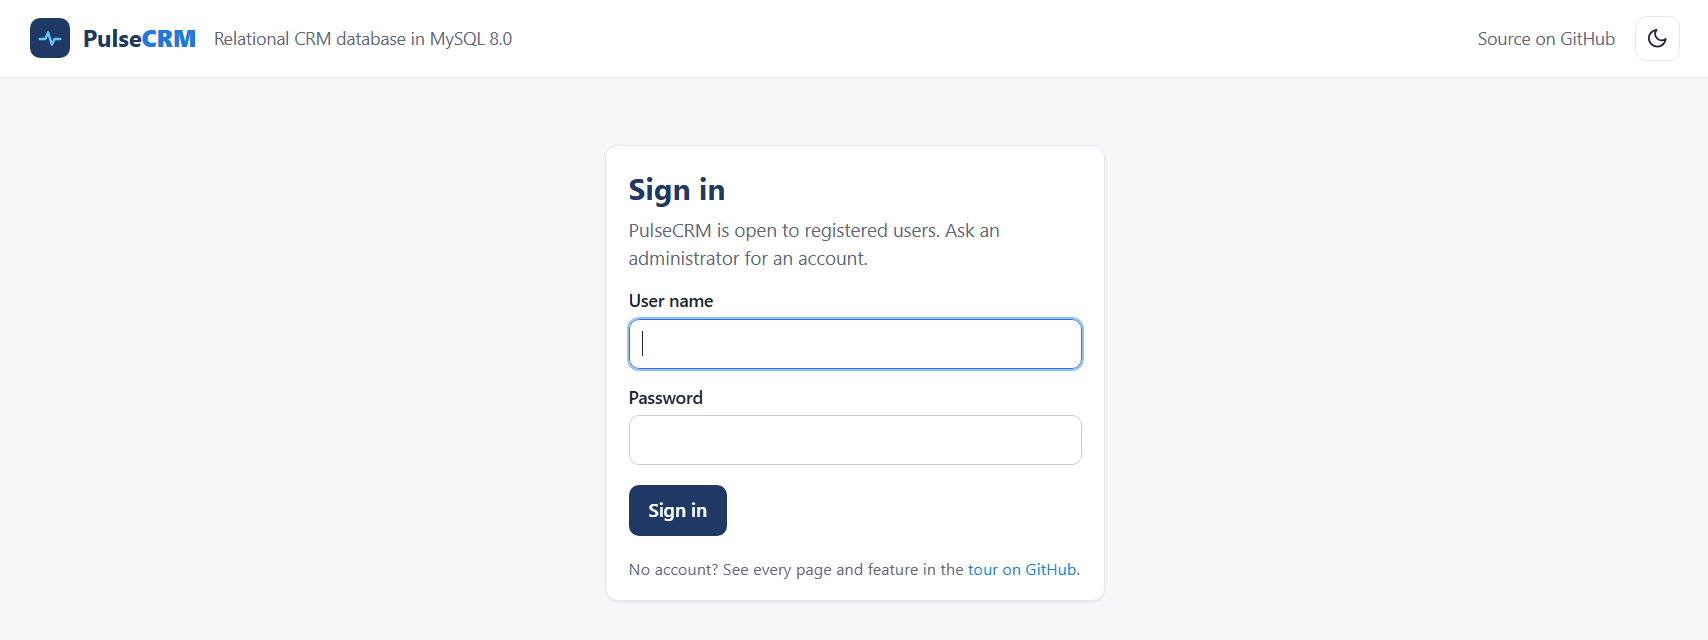
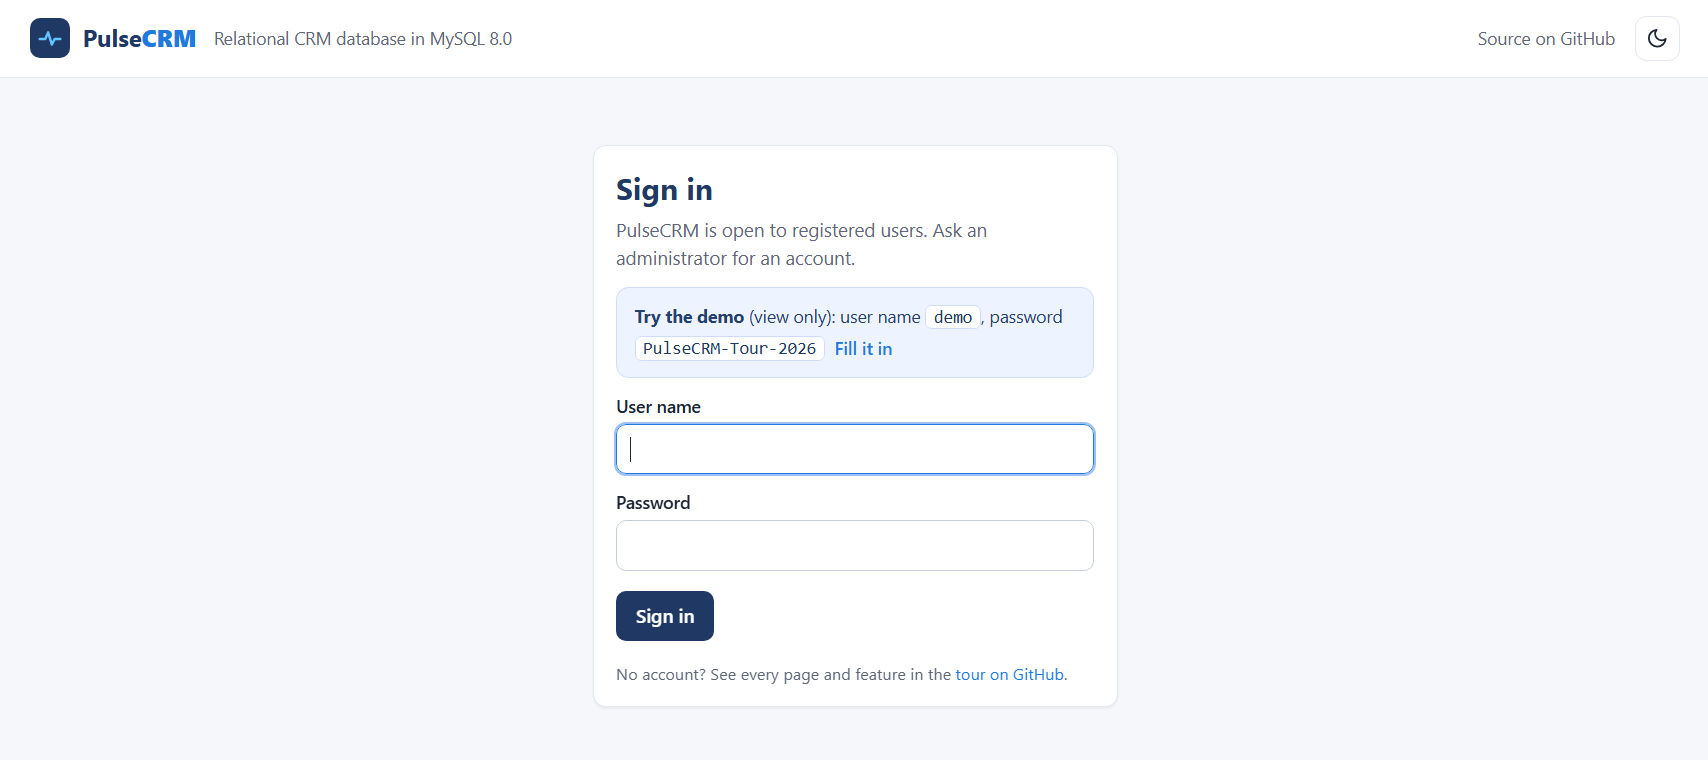
Publish a view-only demo login with a password nobody can change
Accounts can now be marked as a shared demo account (new column
web_accounts.password_locked). For such an account My account offers no
password change, a reset does not ask for a new password, and it cannot
have Manage users. setup_cloud_db.py --keep-data adds the column to an
existing database.

The sign-in page shows the public demo login (demo / PulseCRM-Tour-2026,
view only) with a button that fills it in, and the README lists it next
to the tour.

diff --git a/web/templates/account.html b/web/templates/account.html
@@ -8,19 +8,24 @@
 <div class="grid two">
   <div class="card">
     <h2>Change password</h2>
-    {% if user.must_change_password %}
-      <div class="flash info">You are using a temporary password. Choose your own to continue.</div>
+    {% if user.password_locked %}
+      <p class="muted" style="margin: 0">This is a shared demo account: everyone signs in with the same password, so it
+        cannot be changed here.</p>
+    {% else %}
+      {% if user.must_change_password %}
+        <div class="flash info">You are using a temporary password. Choose your own to continue.</div>
+      {% endif %}
+      <form method="post">
+        <input type="hidden" name="csrf" value="{{ csrf_token() }}">
+        <label for="current">Current password</label>
+        <input type="password" id="current" name="current" autocomplete="current-password" required>
+        <label for="new">New password <span class="hint">(at least 10 characters)</span></label>
+        <input type="password" id="new" name="new" autocomplete="new-password" minlength="10" required>
+        <label for="confirm">New password again</label>
+        <input type="password" id="confirm" name="confirm" autocomplete="new-password" minlength="10" required>
+        <div class="actions"><button class="btn" type="submit">Change password</button></div>
+      </form>
     {% endif %}
-    <form method="post">
-      <input type="hidden" name="csrf" value="{{ csrf_token() }}">
-      <label for="current">Current password</label>
-      <input type="password" id="current" name="current" autocomplete="current-password" required>
-      <label for="new">New password <span class="hint">(at least 10 characters)</span></label>
-      <input type="password" id="new" name="new" autocomplete="new-password" minlength="10" required>
-      <label for="confirm">New password again</label>
-      <input type="password" id="confirm" name="confirm" autocomplete="new-password" minlength="10" required>
-      <div class="actions"><button class="btn" type="submit">Change password</button></div>
-    </form>
   </div>
   <div class="card">
     <h2>My privileges</h2>

diff --git a/web/templates/login.html b/web/templates/login.html
@@ -4,6 +4,13 @@
 <div class="card login-card">
   <h1>Sign in</h1>
   <p class="muted" style="margin: 0 0 8px">PulseCRM is open to registered users. Ask an administrator for an account.</p>
+  {% if demo %}
+    <div class="note-box demo-box">
+      <strong>Try the demo</strong> (view only): user name <code>{{ demo[0] }}</code>, password <code>{{ demo[1] }}</code>
+      <button type="button" class="linkish" id="use-demo" data-username="{{ demo[0] }}" data-password="{{ demo[1] }}">Fill
+        it in</button>
+    </div>
+  {% endif %}
   {% if error %}<div class="flash error" style="margin: 12px 0 0">{{ error }}</div>{% endif %}
   <form method="post">
     <input type="hidden" name="csrf" value="{{ csrf_token() }}">
@@ -17,4 +24,14 @@
   <p class="hint" style="margin: 16px 0 0">No account? See every page and feature in the
     <a href="{{ github }}#live-web-application">tour on GitHub</a>.</p>
 </div>
+{% if demo %}
+<script nonce="{{ csp_nonce() }}">
+  // "Fill it in" copies the public demo login into the form.
+  document.getElementById("use-demo").addEventListener("click", function () {
+    document.getElementById("username").value = this.dataset.username;
+    document.getElementById("password").value = this.dataset.password;
+    document.getElementById("password").focus();
+  });
+</script>
+{% endif %}
 {% endblock %}

diff --git a/web/templates/base.html b/web/templates/base.html
@@ -255,7 +255,11 @@
     .btn.secondary { background: var(--grey-bg); color: var(--ink); }
     .actions { display: flex; flex-wrap: wrap; gap: 10px; align-items: center; margin-top: 16px; }
     .privs { display: grid; grid-template-columns: repeat(auto-fit, minmax(240px, 1fr)); gap: 0 16px; }
-    .login-card { max-width: 400px; margin: 30px auto; }
+    .login-card { max-width: 420px; margin: 30px auto; }
+    .demo-box { margin: 12px 0 0; padding: 10px 14px; line-height: 1.7; }
+    .demo-box button.linkish { color: var(--accent); font-weight: 600; margin-left: 4px; }
+    .demo-box code { padding: 1px 6px; border: 1px solid var(--info-line); border-radius: 5px; background: var(--card);
+                     color: var(--heading); white-space: nowrap; }
     textarea { width: 100%; max-width: 620px; padding: 8px 10px; border: 1px solid var(--field-line); border-radius: 8px;
                font: inherit; background: var(--field-bg); color: var(--ink); }
     .req { color: var(--red); }

diff --git a/web/templates/user_edit.html b/web/templates/user_edit.html
@@ -23,6 +23,9 @@
     {% include "_privilege_matrix.html" %}
     <label class="check"><input type="checkbox" name="is_active" {{ 'checked' if target.is_active }}>
       <span>Active <span class="hint">(clear to block sign-in without deleting the account)</span></span></label>
+    <label class="check"><input type="checkbox" name="password_locked" {{ 'checked' if target.password_locked }}>
+      <span>Shared demo account <span class="hint">(everyone signs in with the same password, so nobody can change
+        it on My account and a reset does not ask for a new one; not allowed with Manage users)</span></span></label>
     {% if blocked %}
       <label class="check"><input type="checkbox" name="unlock"><span>Clear the sign-in block now</span></label>
     {% endif %}

diff --git a/web/templates/users.html b/web/templates/users.html
@@ -21,6 +21,7 @@
             {% if not a.is_active %}{{ badge('Inactive') }}{% else %}{{ badge('Active') }}{% endif %}
             {% if a.blocked %}<span class="hint">blocked from {{ a.blocked }} address{{ 'es' if a.blocked > 1 }}</span>{% endif %}
             {% if a.must_change_password %}<span class="hint">temporary password</span>{% endif %}
+            {% if a.password_locked %}<span class="hint">shared demo account</span>{% endif %}
           </td>
           <td>{{ a.privilege_summary }}</td>
           <td class="n">{{ a.last_login_at|when }}</td>

diff --git a/web/app.py b/web/app.py
@@ -71,6 +71,10 @@ THROTTLE_MINUTES = 15
 MAX_FAILURES_PER_ACCOUNT = 5     # wrong passwords for one account from one network address
 MAX_FAILURES_PER_ADDRESS = 20    # wrong passwords from one network address, for any accounts
 DUMMY_HASH = generate_password_hash("not-a-real-password")   # same work for unknown user names
+# The public demo login, shown on the sign-in page and in the README. It is public on purpose: the account is
+# view-only and marked as a shared demo account (password_locked), so the people using it cannot change its
+# password. An administrator sets this password on the Users page.
+DEMO_LOGIN = ("demo", "PulseCRM-Tour-2026")
 
 
 # --------------------------------------------------------------------------- database
@@ -99,7 +103,7 @@ IS_OPEN_TICKET = "CASE WHEN status IN ('Open', 'In Progress') THEN 1 ELSE 0 END"
 # --------------------------------------------------------------------------- sign-in
 ACCOUNT_SQL = """
     SELECT a.account_id, a.username, a.display_name, a.user_id, a.is_active, a.must_change_password,
-           a.last_login_at, a.created_at, u.full_name AS crm_name, r.role_name,
+           a.password_locked, a.last_login_at, a.created_at, u.full_name AS crm_name, r.role_name,
            GROUP_CONCAT(ap.privilege_code) AS privileges
     FROM web_accounts a
     LEFT JOIN users u                  ON a.user_id = u.user_id
@@ -107,7 +111,7 @@ ACCOUNT_SQL = """
     LEFT JOIN web_account_privileges ap ON ap.account_id = a.account_id
     WHERE a.account_id = %s
     GROUP BY a.account_id, a.username, a.display_name, a.user_id, a.is_active, a.must_change_password,
-             a.last_login_at, a.created_at, u.full_name, r.role_name"""
+             a.password_locked, a.last_login_at, a.created_at, u.full_name, r.role_name"""
 
 
 def load_account(account_id):
@@ -300,7 +304,7 @@ def login():
             # the password is not checked at all, so a blocked address learns nothing by guessing
             error = (f"Too many wrong passwords from your network. Wait up to {THROTTLE_MINUTES} minutes, "
                      "or ask an administrator to clear the block.")
-            return render_template("login.html", page="login", error=error, username=username), 429
+            return render_template("login.html", page="login", error=error, username=username, demo=DEMO_LOGIN), 429
         password_ok = check_password_hash(account["password_hash"] if account else DUMMY_HASH, password)
         if account and password_ok and account["is_active"]:
             with transaction() as cur:
@@ -318,7 +322,7 @@ def login():
             cur.execute("INSERT INTO web_login_failures (ip_address, account_id) VALUES (%s, %s)", (ip, account_id))
             audit(cur, account_id, "login_failed", f"from {ip}" if account else f"unknown user name, from {ip}")
         error = "Wrong user name or password."
-    return render_template("login.html", page="login", error=error, username=username)
+    return render_template("login.html", page="login", error=error, username=username, demo=DEMO_LOGIN)
 
 
 @app.route("/logout", methods=["POST"])
@@ -332,6 +336,11 @@ def logout():
 
 @app.route("/account", methods=["GET", "POST"])
 def account():
+    if g.user["password_locked"]:
+        # a shared demo account: everyone uses the same password, so nobody may change it for the others
+        if request.method == "POST":
+            flash("This is a shared demo account, so its password cannot be changed.", "error")
+        return render_template("account.html", page="account")
     if request.method == "POST":
         current = request.form.get("current", "")
         new = request.form.get("new", "")
@@ -425,14 +434,14 @@ def users():
                            else "That CRM staff member already has an account.")
         flash(problem, "error")
     accounts = rows("""
-        SELECT a.account_id, a.username, a.display_name, a.is_active, a.must_change_password, a.last_login_at,
-               u.full_name AS crm_name, r.role_name, GROUP_CONCAT(ap.privilege_code) AS codes
+        SELECT a.account_id, a.username, a.display_name, a.is_active, a.must_change_password, a.password_locked,
+               a.last_login_at, u.full_name AS crm_name, r.role_name, GROUP_CONCAT(ap.privilege_code) AS codes
         FROM web_accounts a
         LEFT JOIN users u                   ON a.user_id = u.user_id
         LEFT JOIN roles r                   ON u.role_id = r.role_id
         LEFT JOIN web_account_privileges ap ON ap.account_id = a.account_id
-        GROUP BY a.account_id, a.username, a.display_name, a.is_active, a.must_change_password, a.last_login_at,
-                 u.full_name, r.role_name
+        GROUP BY a.account_id, a.username, a.display_name, a.is_active, a.must_change_password, a.password_locked,
+                 a.last_login_at, u.full_name, r.role_name
         ORDER BY a.username""")
     blocked = blocked_addresses()
     for a in accounts:
@@ -463,6 +472,7 @@ def user_edit(account_id):
         active = request.form.get("is_active") == "on"
         chosen = set(request.form.getlist("privileges")) & valid
         new_password = request.form.get("new_password", "")
+        locked = request.form.get("password_locked") == "on"
         was_admin = target["is_active"] and "manage_users" in target["privileges"]
         stays_admin = active and "manage_users" in chosen
         problem = None
@@ -474,13 +484,19 @@ def user_edit(account_id):
             problem = "You cannot remove Manage users from your own account."
         elif was_admin and not stays_admin and other_admins(account_id) == 0:
             problem = "At least one active account must keep the Manage users privilege."
+        elif locked and "manage_users" in chosen:
+            problem = "A shared demo account cannot have the Manage users privilege."
         elif new_password:
             problem = password_problem(new_password, new_password, target["username"])
         if not problem:
             try:
                 with transaction() as cur:
-                    cur.execute("""UPDATE web_accounts SET display_name = %s, user_id = %s, is_active = %s
-                                   WHERE account_id = %s""", (display, form_user_id(), active, account_id))
+                    # a shared demo account is never asked for a new password: nobody could give one
+                    cur.execute("""UPDATE web_accounts
+                                   SET display_name = %s, user_id = %s, is_active = %s, password_locked = %s,
+                                       must_change_password = must_change_password AND NOT %s
+                                   WHERE account_id = %s""",
+                                (display, form_user_id(), active, locked, locked, account_id))
                     for code in sorted(target["privileges"] - chosen):
                         cur.execute("""DELETE FROM web_account_privileges
                                        WHERE account_id = %s AND privilege_code = %s""", (account_id, code))
@@ -491,14 +507,17 @@ def user_edit(account_id):
                     changes += [f"-{c}" for c in sorted(target["privileges"] - chosen)]
                     if active != bool(target["is_active"]):
                         changes.append("activated" if active else "deactivated")
+                    if locked != bool(target["password_locked"]):
+                        changes.append("shared demo account" if locked else "no longer a shared demo account")
                     if request.form.get("unlock") == "on" or new_password:
                         cur.execute("DELETE FROM web_login_failures WHERE account_id = %s", (account_id,))
                         if cur.rowcount and request.form.get("unlock") == "on":
                             changes.append("sign-in block cleared")
                     audit(cur, me, "account_updated", f"{target['username']}: {', '.join(changes) or 'details'}")
                     if new_password:
-                        cur.execute("""UPDATE web_accounts SET password_hash = %s, must_change_password = TRUE
-                                       WHERE account_id = %s""", (generate_password_hash(new_password), account_id))
+                        cur.execute("""UPDATE web_accounts SET password_hash = %s, must_change_password = %s
+                                       WHERE account_id = %s""",
+                                    (generate_password_hash(new_password), not locked, account_id))
                         audit(cur, me, "password_reset", target["username"])
                 flash(f"Account {target['username']} saved.", "ok")
                 return redirect(url_for("users"))

diff --git a/.github/scripts/check_web.py b/.github/scripts/check_web.py
@@ -13,7 +13,7 @@ import sys
 from urllib.parse import unquote, urlparse
 
 import pymysql
-from werkzeug.security import generate_password_hash
+from werkzeug.security import check_password_hash, generate_password_hash
 
 ROOT = os.path.dirname(os.path.dirname(os.path.dirname(os.path.abspath(__file__))))
 sys.path.insert(0, os.path.join(ROOT, "web"))
@@ -102,6 +102,7 @@ def main():
     check('id="theme-toggle"' in html and ':root[data-theme="dark"]' in html,
           "every page has the sun/moon button and a dark palette")
     check("#live-web-application" in html, "the sign-in page links visitors to the tour on GitHub")
+    check("Try the demo" in html and 'id="use-demo"' in html, "the sign-in page shows the public demo login")
     csp = anon.get("/login").headers.get("Content-Security-Policy", "")
     check("script-src 'nonce-" in csp and "default-src 'none'" in csp and "frame-ancestors 'none'" in csp
           and "unsafe-inline" not in csp.split("script-src")[1].split(";")[0], f"Content-Security-Policy: {csp}")
@@ -272,6 +273,30 @@ def main():
     r = sprayer.post("/login", data={"csrf": token(sprayer), "username": "ci.rep", "password": new_password},
                      headers={"X-Forwarded-For": "10.9.9.9", "X-Real-IP": "10.9.9.9"})
     check(r.status_code == 429, "a forged X-Forwarded-For or X-Real-IP header does not get round the block")
+
+    print("== Shared demo account")
+    demo_password = "Tour-" + secrets.token_urlsafe(10)
+    view_only = ["view_overview", "view_leads"]
+    post(admin, "/users", {"username": "ci.demo", "display_name": "CI Demo", "password": demo_password,
+                           "privileges": view_only})
+    cur.execute("SELECT account_id FROM web_accounts WHERE username = 'ci.demo'")
+    demo_id = cur.fetchone()[0]
+    r = post(admin, f"/users/{demo_id}", {"display_name": "CI Demo", "is_active": "on", "password_locked": "on",
+                                          "new_password": demo_password, "privileges": view_only})
+    cur.execute("SELECT password_locked, must_change_password FROM web_accounts WHERE account_id = %s", (demo_id,))
+    check(r.status_code == 302 and cur.fetchone() == (1, 0),
+          "ci.demo becomes a shared demo account, and a password reset does not ask for a new one")
+    visitor = web.app.test_client()
+    check(sign_in(visitor, "ci.demo", demo_password).status_code == 302 and visitor.get("/").status_code == 200,
+          "ci.demo signs in straight to the Dashboard")
+    html = visitor.get("/account").get_data(as_text=True)
+    check("shared demo account" in html and 'name="new"' not in html, "My account has no password form for it")
+    post(visitor, "/account", {"current": demo_password, "new": "Changed-pass-123", "confirm": "Changed-pass-123"})
+    cur.execute("SELECT password_hash FROM web_accounts WHERE account_id = %s", (demo_id,))
+    check(check_password_hash(cur.fetchone()[0], demo_password), "its users cannot change its password")
+    html = post(admin, f"/users/{demo_id}", {"display_name": "CI Demo", "is_active": "on", "password_locked": "on",
+                                             "privileges": view_only + ["manage_users"]}, follow=True).get_data(as_text=True)
+    check("cannot have the Manage users privilege" in html, "a shared demo account cannot get Manage users")
 
     print("== Delete and sign out")
     r = post(admin, f"/users/{rep_id}/delete", {})

diff --git a/web/setup_cloud_db.py b/web/setup_cloud_db.py
@@ -151,6 +151,15 @@ def main():
         if old_columns:
             cur.execute("ALTER TABLE web_accounts " + ", ".join(f"DROP COLUMN {c}" for c in old_columns))
             print(f"   web_accounts: per-account lockout columns removed ({', '.join(old_columns)})")
+        # shared demo accounts, whose password the people using them cannot change
+        cur.execute("""SELECT COUNT(*) FROM information_schema.columns
+                       WHERE table_schema = 'pulse_crm' AND table_name = 'web_accounts'
+                         AND column_name = 'password_locked'""")
+        if not cur.fetchone()[0]:
+            cur.execute("""ALTER TABLE web_accounts ADD COLUMN password_locked BOOLEAN NOT NULL DEFAULT FALSE
+                           COMMENT 'TRUE for a shared demo account: its users cannot change the password'
+                           AFTER must_change_password""")
+            print("   web_accounts: password_locked added (shared demo accounts)")
     print("2. sign-in tables added or updated from database/web_access.sql")
 
     # 3. the web application's MySQL account

diff --git a/README.md b/README.md
@@ -11,7 +11,7 @@ PulseCRM stores everything a B2B sales and service team needs: leads, accounts, 
 
 > Final project for **Relational Database Management Systems (RDBMS)**, Postgraduate Diploma in Generative AI, NED University of Engineering & Technology, Karachi.
 
-**Live web application:** [pulsecrm-peach.vercel.app](https://pulsecrm-peach.vercel.app). No account? [Take the tour](#live-web-application) to see every page.
+**Live web application:** [pulsecrm-peach.vercel.app](https://pulsecrm-peach.vercel.app). Sign in with the view-only demo login, user name `demo` and password `PulseCRM-Tour-2026`, or [take the tour](#live-web-application) to see every page.
 
 ![PulseCRM dashboard: KPI cards, pipeline by stage and sales funnel](<docs/screenshots/web/dashboard.png>)
 
@@ -83,7 +83,14 @@ PulseCRM replaces those scattered sources with **one normalized relational datab
 
 ## Live Web Application
 
-**[pulsecrm-peach.vercel.app](https://pulsecrm-peach.vercel.app)** runs PulseCRM in the browser on the sample data. Signing in needs an account from an administrator, so this tour shows every part of the site for visitors who cannot sign in. All companies, people and figures are fictional.
+**[pulsecrm-peach.vercel.app](https://pulsecrm-peach.vercel.app)** runs PulseCRM in the browser on the sample data. All companies, people and figures are fictional.
+
+| Demo login (view only) | |
+|---|---|
+| User name | `demo` |
+| Password | `PulseCRM-Tour-2026` |
+
+The demo account can open every page except Users, but cannot add, edit or delete anything, and nobody can change its password. Other accounts are created by an administrator. This tour shows every part of the site.
 
 ### Sign-in page
 

diff --git a/web/README.md b/web/README.md
@@ -64,6 +64,7 @@ On the Users page, privileges are a grid: one row per page, with View, Add, Edit
 - **Content-Security-Policy:** scripts run only from `<script>` tags that carry the response's random nonce. There are no inline event handlers, and nothing is loaded from other sites except the ER diagram image from GitHub.
 - **Sessions:** the session cookie is signed with `SECRET_KEY`, is HTTP-only and HTTPS-only, and expires after 8 hours.
 - **Administrators:** they cannot deactivate themselves or remove their own **Manage users** privilege, and the last administrator cannot be removed.
+- **Shared demo account:** an administrator can mark an account as a shared demo account (`password_locked`). Everyone signs in with the same password, so My account does not offer a password change, and a password reset does not ask for a new one; such an account cannot have **Manage users**. The live site's public demo login is `demo` / `PulseCRM-Tour-2026` (view only), shown on the sign-in page; it is set in `DEMO_LOGIN` in `app.py`, and the account's password on the Users page must match it.
 
 ## Database access
 
